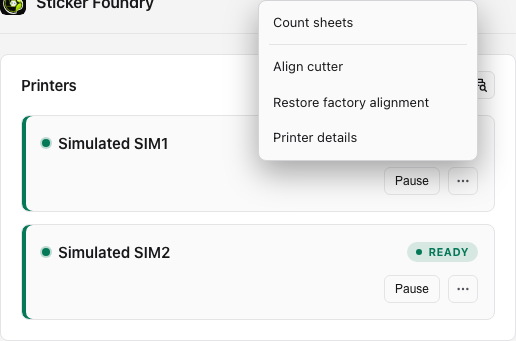
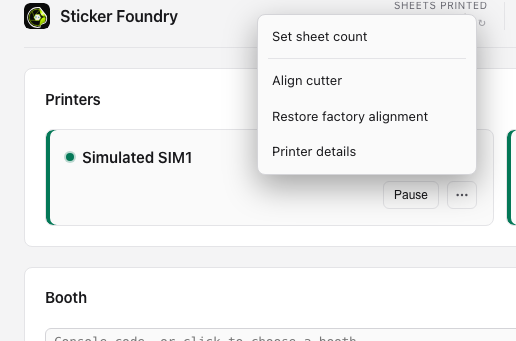
Download page for Sticker Foundry 5.0.3

diff --git a/GUIDE.md b/GUIDE.md
@@ -64,22 +64,22 @@ prints.
 
 If the blade cuts beside the stickers instead of round them, align the cutter.
 
-<img src="images/guide/printer-menu.png" alt="The menu of a printer card, open, with Count sheets, Align cutter, Restore factory alignment and Printer details" width="420">
+<img src="images/guide/printer-menu.png" alt="The menu of a printer card, open, with Set sheet count, Align cutter, Restore factory alignment and Printer details" width="420">
 
 *On the printer's card, press the ... button, then Align cutter.*
 
-1. **Print the sheet.** Press **Print alignment sheet**. The printer prints one test sheet with rulers along its edges and cuts four long lines that cross at the corners, A, B, C and D.
-2. **Read the corners.** Take the sheet out. For each corner, find where the cut lines meet the rulers and type the numbers in millimetres. X is across, on the top or bottom ruler. Y is down, on the left or right ruler. The boxes start at the expected values (5 and 75 across, 5 and 155 down), so change only the ones that differ. Press **Apply alignment**. The printer remembers the fix.
+1. **Print.** Press **Print test sheet**. The printer prints one test sheet with rulers along its edges. It also cuts four long lines that meet at the corners A, B, C and D.
+2. **Read.** Take the sheet out. At each corner, read the ruler where the red ring is. Type the number in the box. Change only the boxes that differ. Press **Apply**. The printer saves the fix.
 
-<img src="images/guide/align-readings.png" alt="The Align cutter window at step 2, Read the corners: the alignment sheet picture and boxes for corners A, B, C and D" width="560">
+<img src="images/guide/align-readings.png" alt="The Align cutter window at step 2, Read: a picture of each corner with its red ring, and X and Y boxes for corners A, B, C and D" width="560">
 
-*Step 2: type where each cut corner meets the rulers.*
+*Step 2: the red ring is where you read.*
 
-3. **Check (optional).** Press **Check on the same sheet**. Put the same sheet back in the tray, alone, printed side up. The printer only cuts it again. The new corners should sit on 5, 75, 5 and 155.
+3. **Check (optional).** Press **Check on same sheet**. Put the same sheet back in the tray, alone, printed side up. The printer only cuts it again, and does not print. The new corners should sit on 5, 75, 5 and 155.
 
-<img src="images/guide/align-check.png" alt="The Align cutter window at step 3, after the check: the new corner cuts should sit on 5, 75, 5 and 155" width="560">
+<img src="images/guide/align-check.png" alt="The Align cutter window after Apply: the saved alignment, with Done and Check on same sheet" width="560">
 
-*Step 3: the check says where the new corners should sit.*
+*After Apply: the fix is saved on the printer.*
 
 Cuts look worse? Press **...** on the card, then **Restore factory alignment**.
 

diff --git a/GUIDE-FOR-AI.md b/GUIDE-FOR-AI.md
@@ -97,11 +97,11 @@ Steps:
 
 Where: **Use the card's Pause button**
 
-### Count sheets (paper warnings)
+### Set sheet count (paper warnings)
 
-Asked as: count sheets, sheet count, update sheet count, how many sheets left, stop counting, paper warning
+Asked as: set sheet count, count sheets, sheet count, update sheet count, how many sheets left, stop counting
 
-Open a printer's three dots and press Count sheets, then enter how many sheets you loaded. While it counts, the card shows how many are left. Sticker Foundry warns you before they run out and stops sending sheets to that printer at zero. Printers cannot report paper, so this is only your count. Stop counting, in the same menu, turns it off.
+Open a printer's three dots and press Set sheet count, then enter how many sheets you loaded. While it counts, the card shows how many are left. Sticker Foundry warns you before they run out and stops sending sheets to that printer at zero. Printers cannot report paper, so this is only your count. Stop counting, in the same menu, turns it off.
 
 Where: **The three dots on each card**
 
@@ -372,13 +372,13 @@ Where: **Dark or light**
 
 Asked as: align cutter, alignment, cut is off, cut offset, blade misaligned, print and cut not lined up
 
-If the blade cuts beside the print, press the three dots on that printer's card, then Align cutter. It prints one test sheet, you read where its four cut lines meet the rulers, and the printer remembers the fix. Then you can check it on the same sheet.
+If the blade cuts beside the print, press the three dots on that printer's card, then Align cutter. It prints one test sheet, you read where its four cut lines meet the rulers, and the printer remembers the fix. Then you can check it on same sheet, which only cuts.
 
 Steps:
 1. Press the three dots on the card, then Align cutter.
-2. Press Print alignment sheet.
-3. Read where each cut line meets the ruler (the red dots in the picture). Change only boxes that differ.
-4. Press Apply alignment, then Check on the same sheet (optional).
+2. Press Print test sheet.
+3. Read where each cut line meets the ruler, inside the red ring. Change only boxes that differ.
+4. Press Apply, then Check on same sheet (optional).
 
 Where: **The three dots on the printer's card**
 
